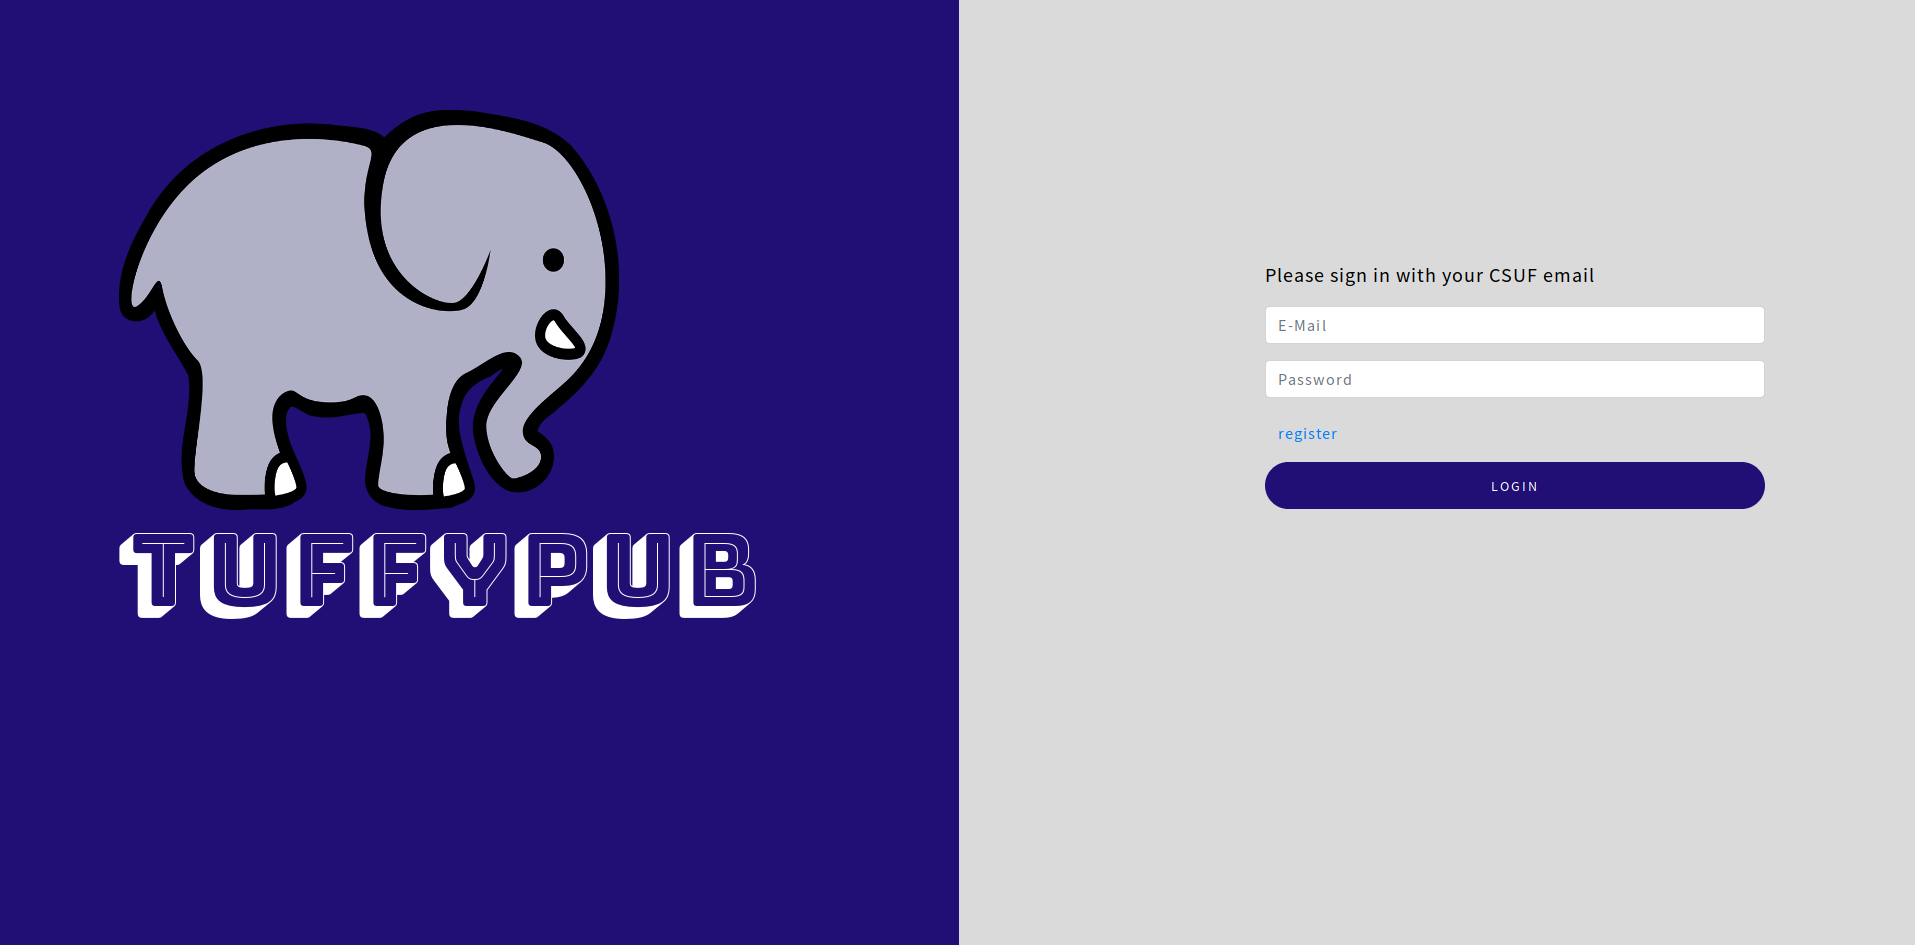
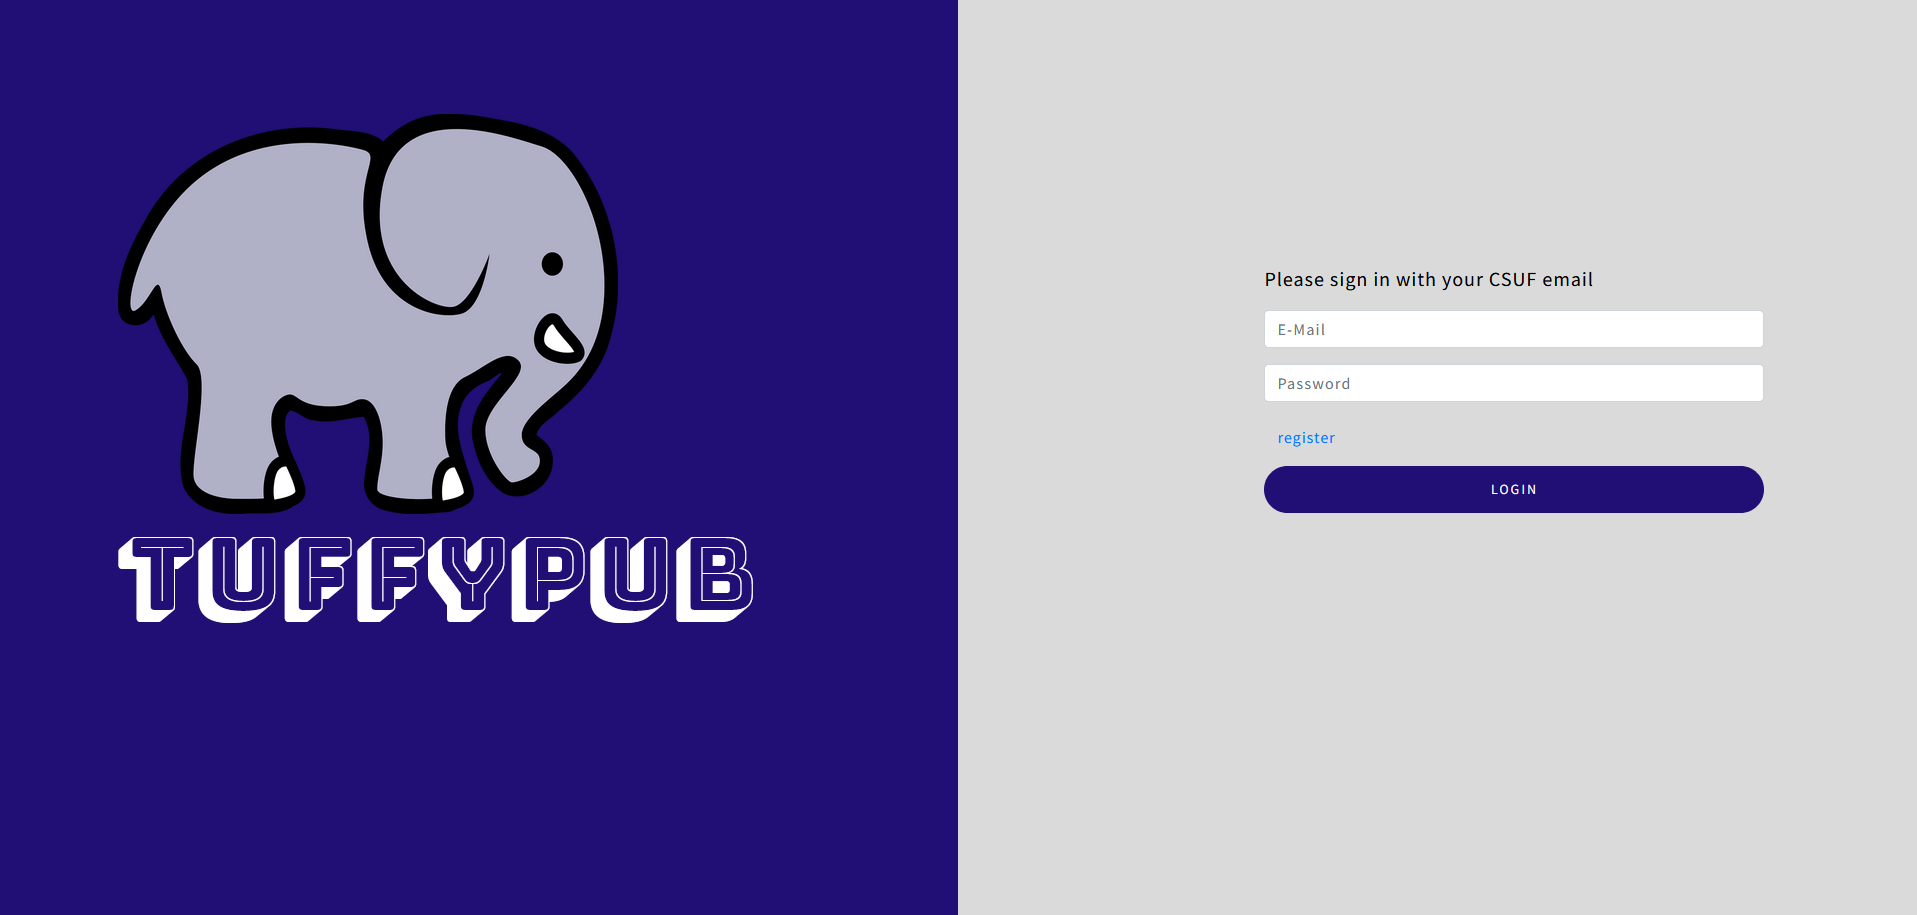
Inset shadows

Changed region(s): [[0.0616, 0.0918, 0.4005, 0.7038], [0.647, 0.2754, 0.9243, 0.5814], [0.1849, 0.2448, 0.2465, 0.3672]]

diff --git a/Open Inventory/OpenInventory.css b/Open Inventory/OpenInventory.css
@@ -38,9 +38,11 @@ a:active, a:focus {
     border-width: 1px;
     border-radius: 5px;
     border-color: rgba(0, 0, 0, 0.3);
-    margin: 0 20px 0 20px;
+    margin: 0 20px 20px 20px;
     padding: 50px 15px 50px 15px;
     min-width: 900px;
+    box-shadow: inset 0px 0px 15px rgba(0, 0, 0, 0.384);
+
 
 }
 
@@ -50,6 +52,8 @@ a:active, a:focus {
     float: left;
     font-family: 'Segoe UI', Tahoma, Geneva, Verdana, sans-serif;
     font-weight: 100;
+    box-shadow: inset 0px 0px 15px rgba(0, 0, 0, 0.384);
+
 }
 
 

diff --git a/Sprite Game/sprites.css b/Sprite Game/sprites.css
@@ -42,9 +42,10 @@ a:active, a:focus {
     border-color: rgba(0, 0, 0, 0.3);
     border-width: 1px;
     border-radius: 5px;
-    margin: 0 20px 0 20px;
-    padding: 10px 15px 50px 15px;
+    margin: 0 20px 20px 20px;
+    padding: 10px 15px 10px 15px;
     min-width: 900px;
+    box-shadow: inset 0px 0px 15px rgba(0, 0, 0, 0.384);
 
 }
 

diff --git a/Ayli/Ayli.css b/Ayli/Ayli.css
@@ -38,9 +38,10 @@ a:active, a:focus {
     border-color: rgba(0, 0, 0, 0.3);
     border-width: 1px;
     border-radius: 5px;
-    margin: 0 20px 0 20px;
+    margin: 0 20px 20px 20px;
     padding: 50px 15px 50px 15px;
     min-width: 900px;
+    box-shadow: inset 0px 0px 15px rgba(0, 0, 0, 0.384);
 
 }
 

diff --git a/TuffyPub/tuffy.css b/TuffyPub/tuffy.css
@@ -38,9 +38,10 @@ a:active, a:focus {
     border-color: rgba(0, 0, 0, 0.3);
     border-width: 1px;
     border-radius: 5px;
-    margin: 0 20px 0 20px;
+    margin: 0 20px 20px 20px;
     padding: 50px 15px 50px 15px;
     min-width: 900px;
+    box-shadow: inset 0px 0px 15px rgba(0, 0, 0, 0.384);
 
 }
 

diff --git a/index.css b/index.css
@@ -48,6 +48,7 @@ a:active, a:focus {
     -moz-transition:.15s;
     -webkit-transition:.15s;
     transition:.15s;
+    box-shadow: inset 0px 0px 15px rgba(0, 0, 0, 0.384);
 }
 
 @media (max-width: 1700px) {

diff --git a/resume.css b/resume.css
@@ -60,8 +60,8 @@ a:active, a:focus {
     height: 65vh !important;
     max-height: 650px !important;
     overflow: auto;
+    box-shadow: inset 0px 0px 15px rgba(0, 0, 0, 0.384);
 
-    
 }
 
 #page1-div {
